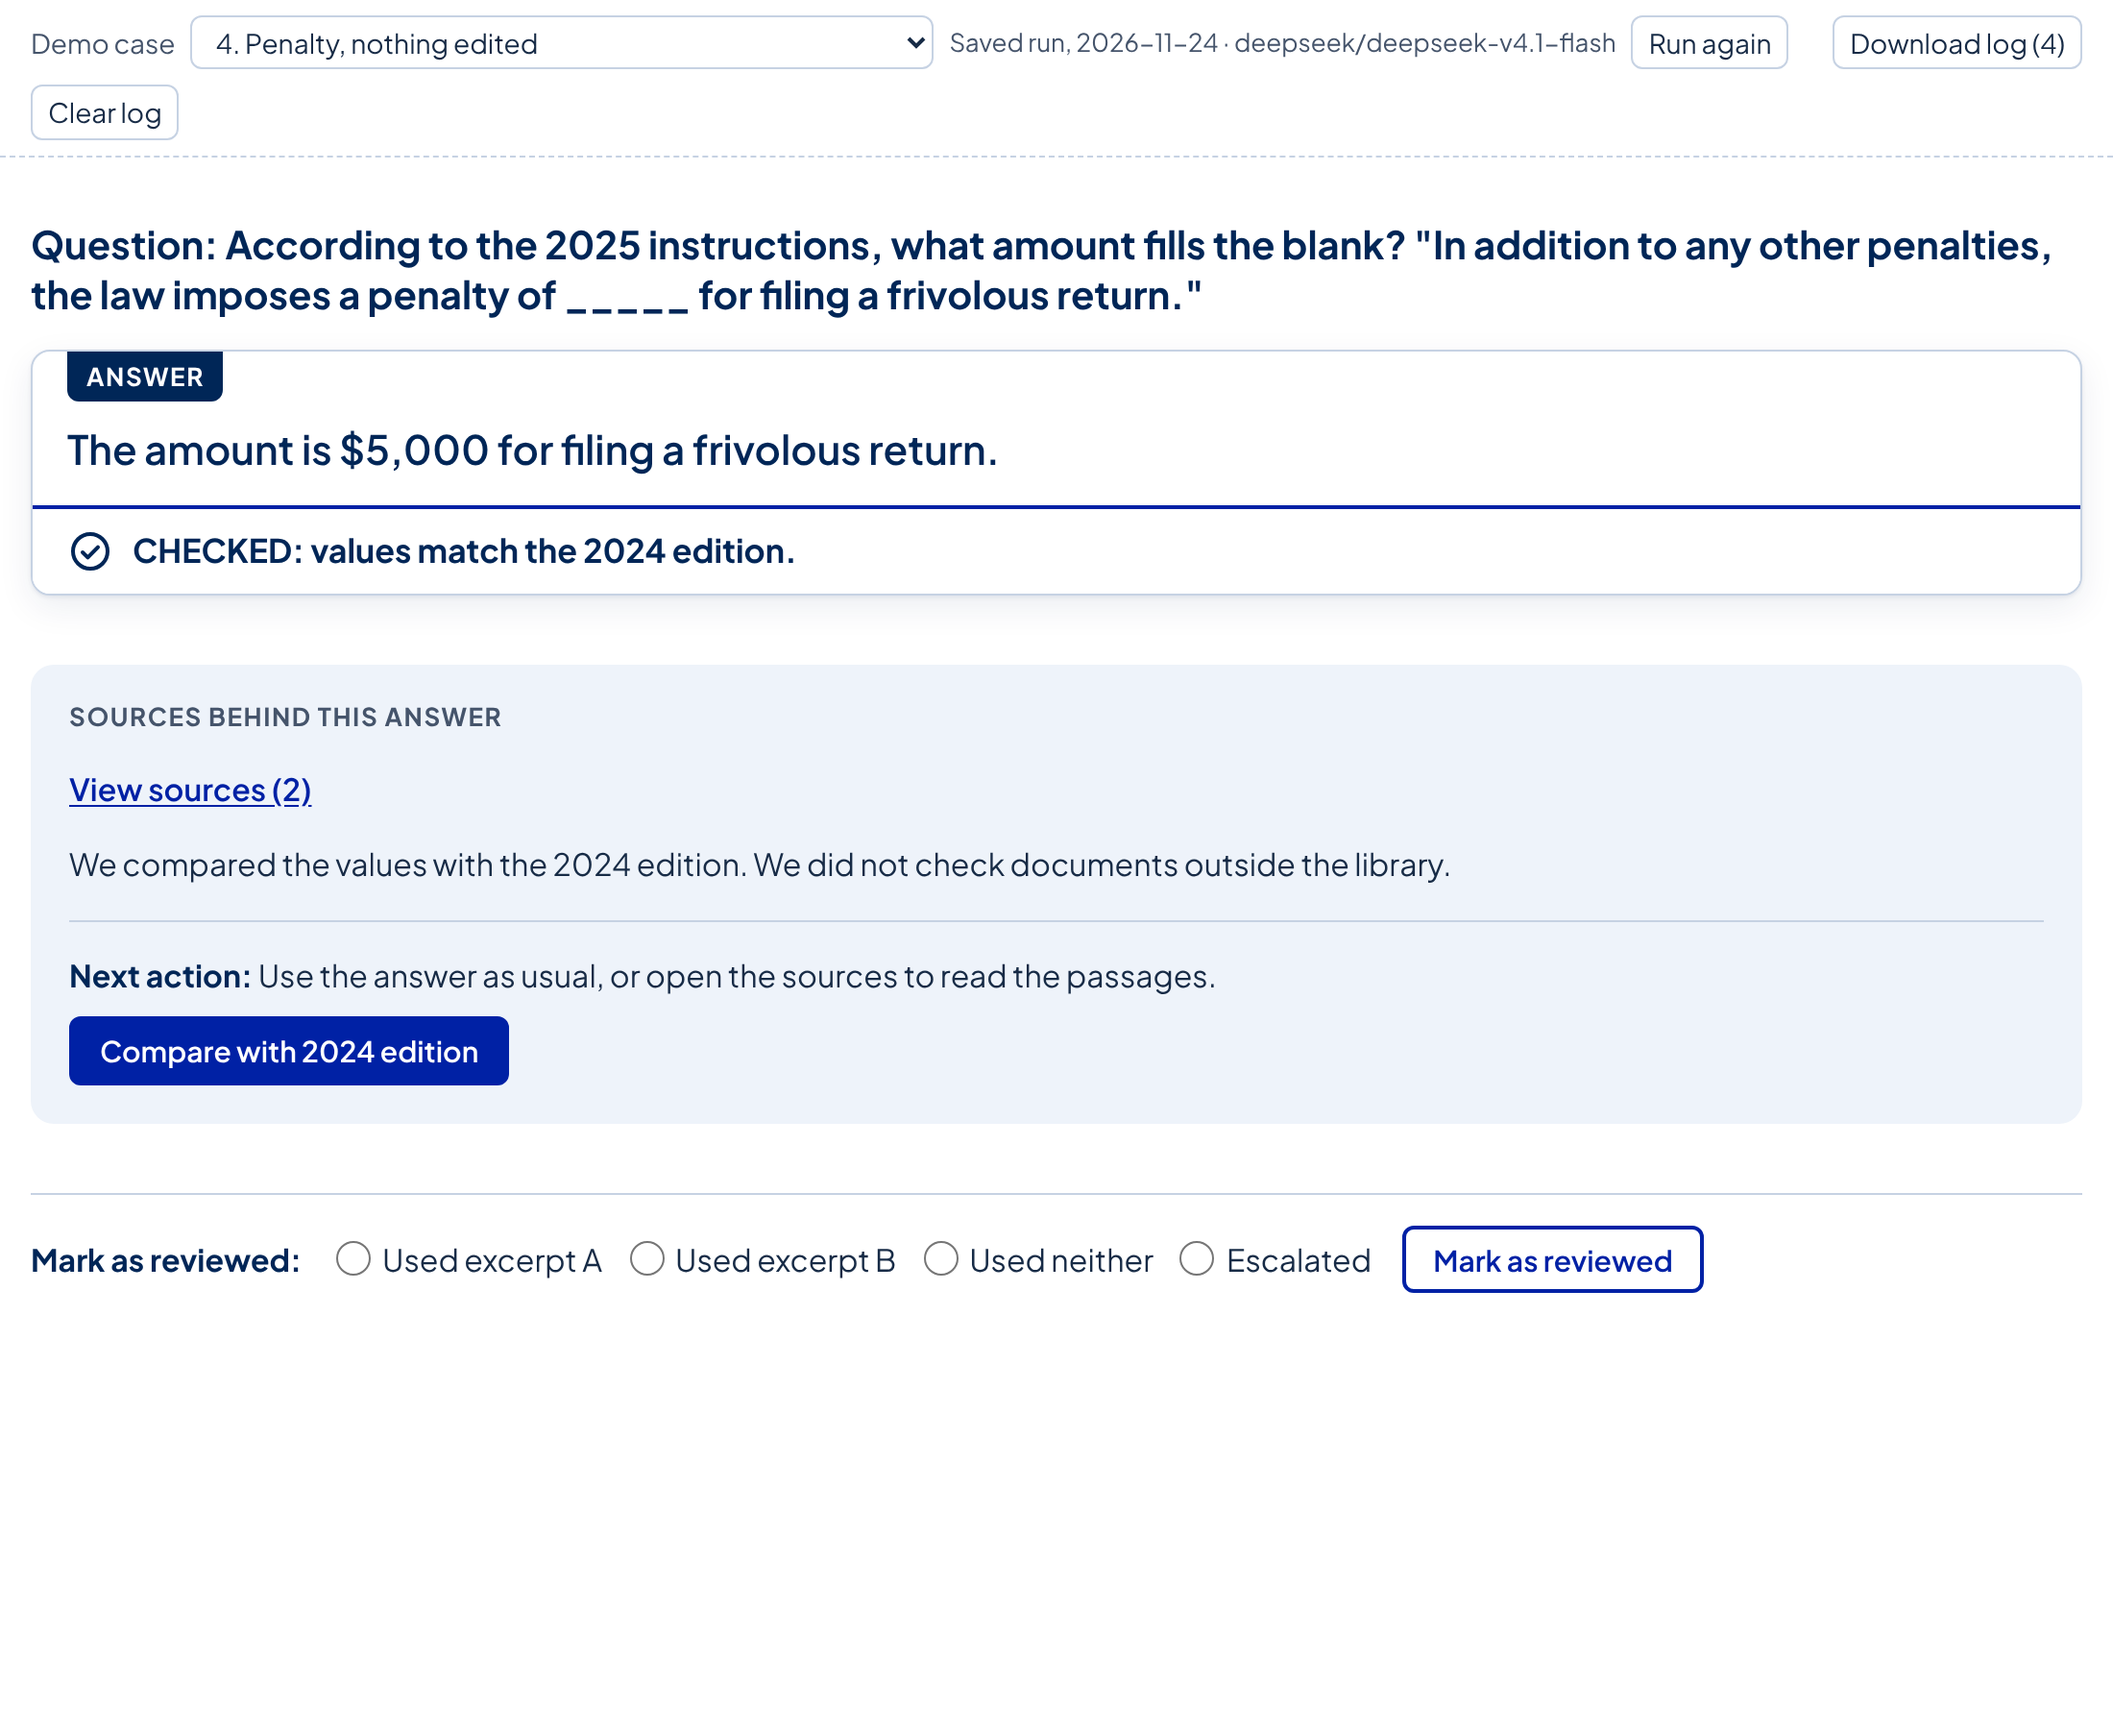
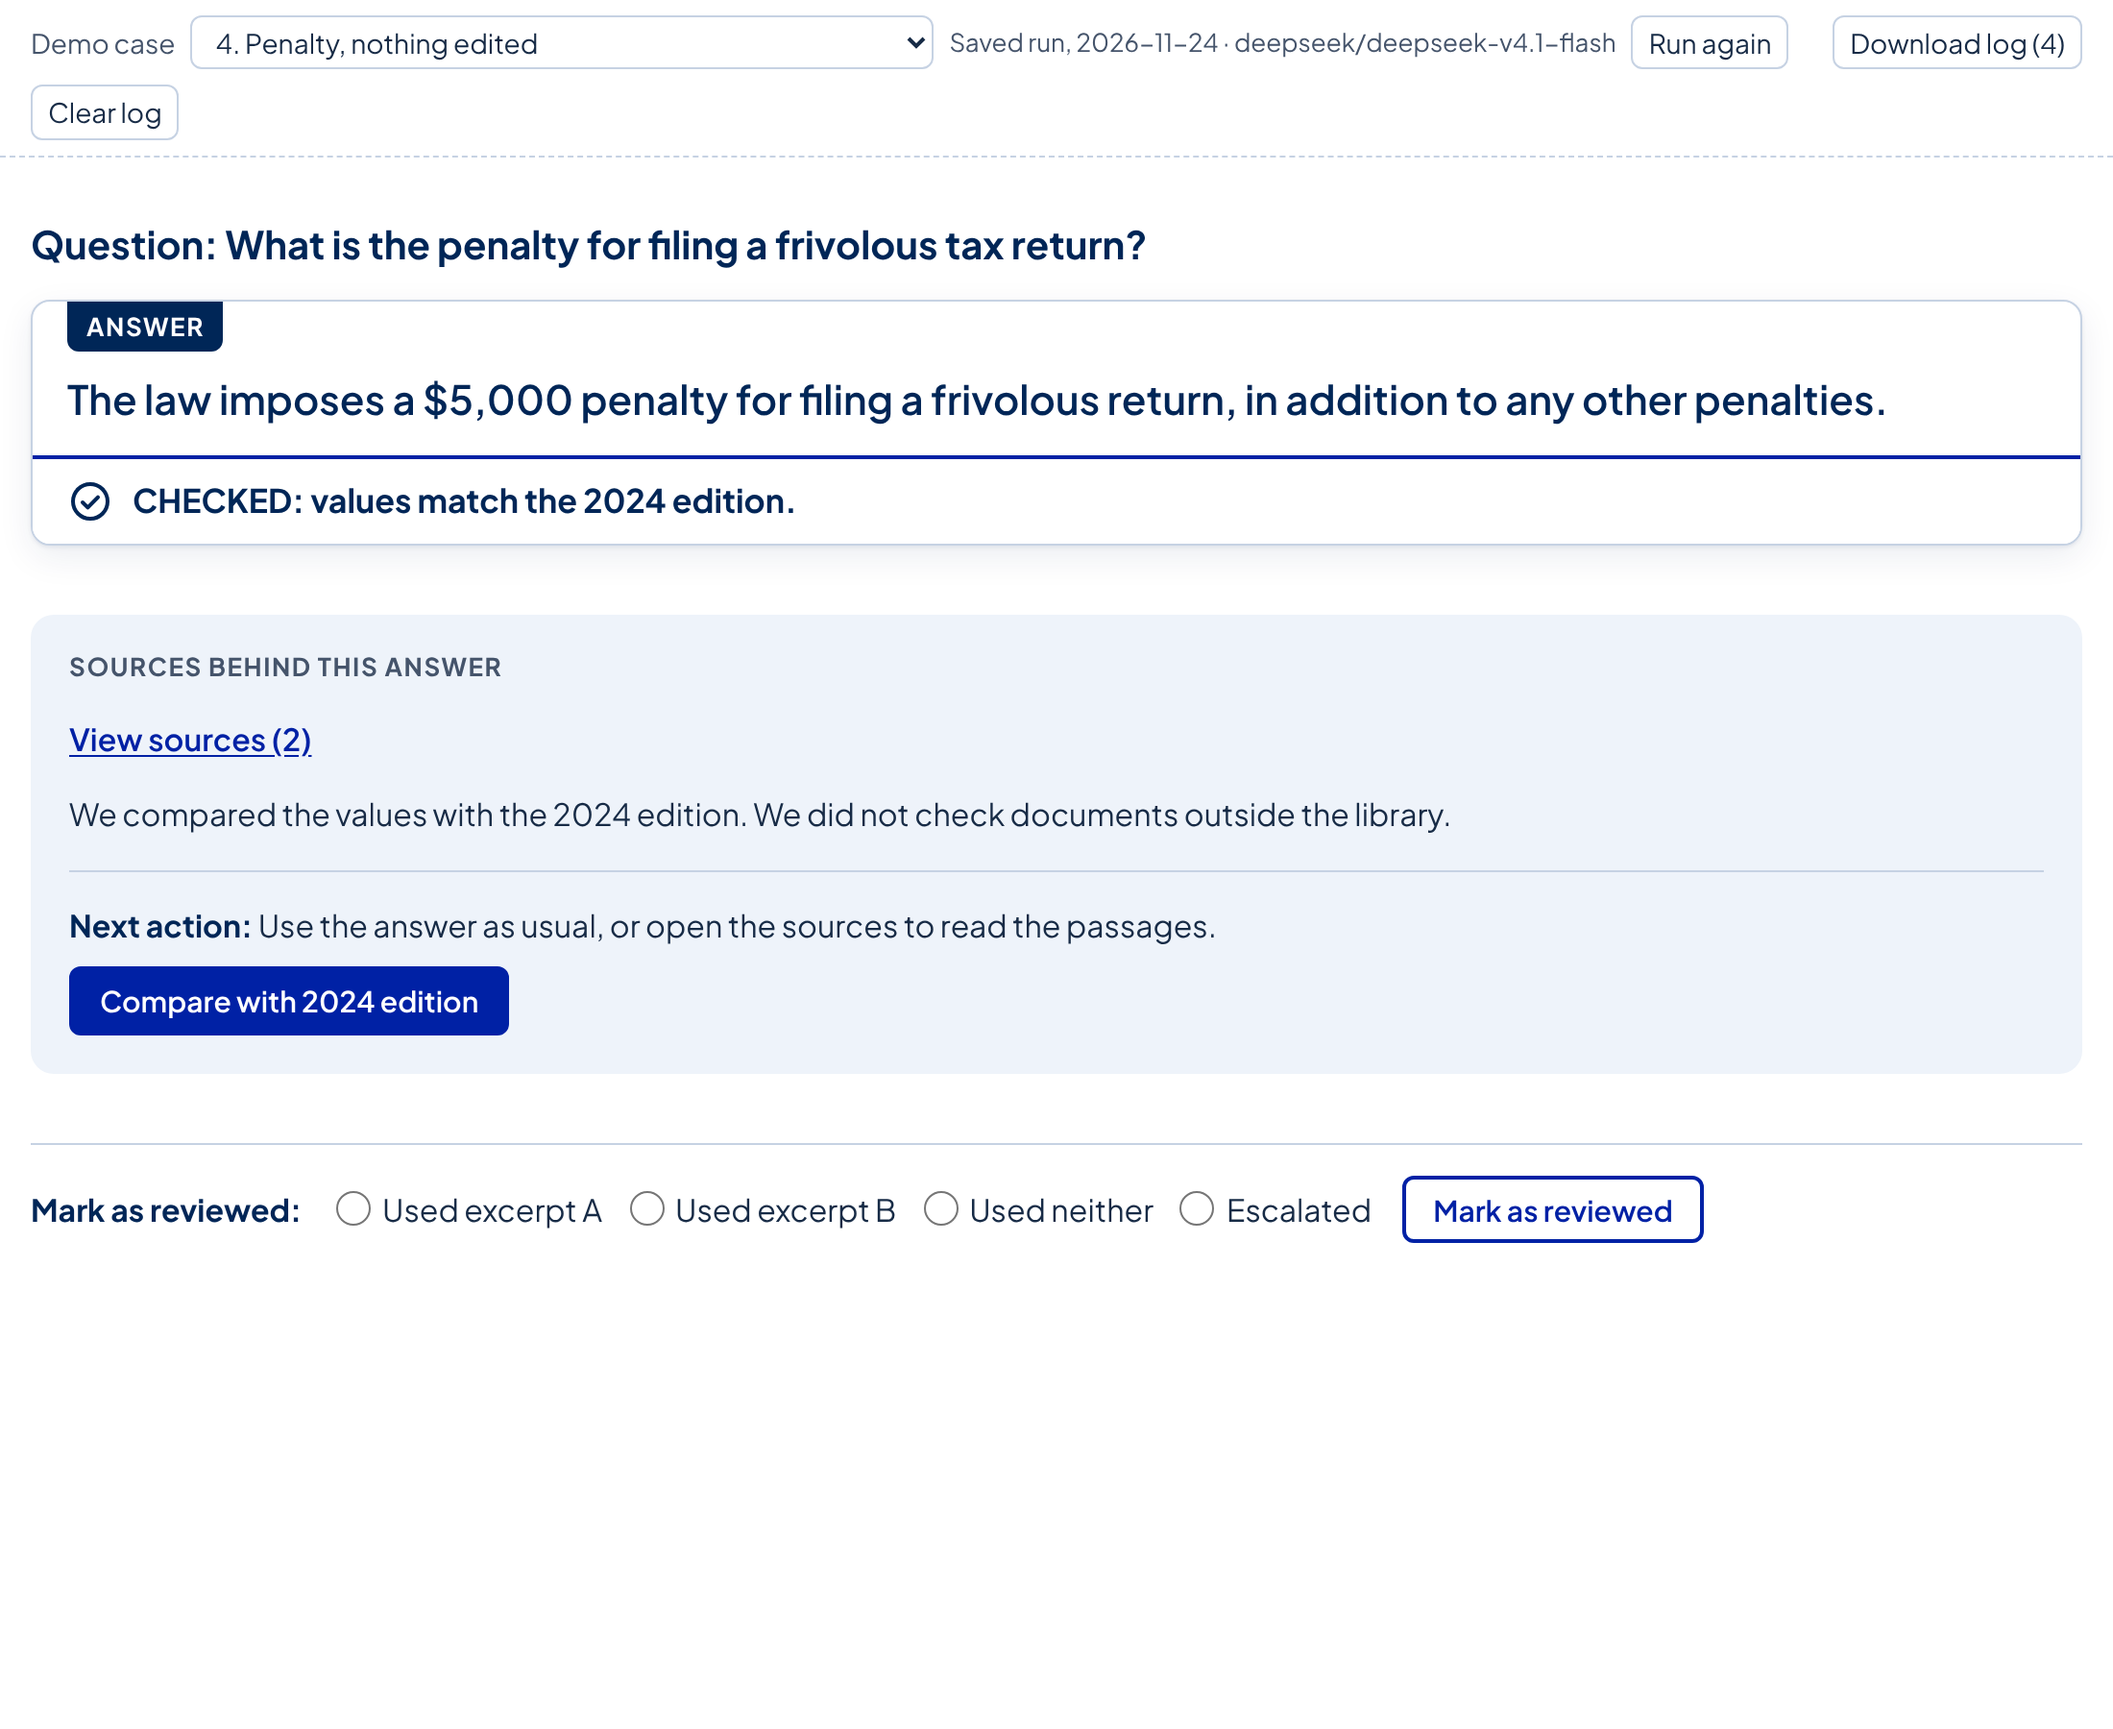
Regenerate demo files with natural question wording
Demo JSON regenerated from a real DeepSeek V4.1 Flash run with the new
question wording; backup screenshots and README example updated.

Claude-Session: https://claude.ai/code/session_016EJCecGABmWYNLkAY2uVbw

Changed region(s): [[0.0, 0.1244, 0.9582, 0.3422], [0.0309, 0.3733, 0.68, 0.6533], [0.0, 0.6533, 0.8036, 0.7467]]

diff --git a/README.md b/README.md
@@ -15,7 +15,7 @@ python3 -m http.server 8000
 
 Open <http://localhost:8000>. (`python3 server.py` from the repo root works too.) Don't open `index.html` directly: browsers block loading the JSON from `file://`.
 
-The **Demo case** dropdown is built from `static/demo/index.json`. Each case is a real trust-layer run on DeepSeek V4.1 Flash, generated ahead of time by `make_demo_json.py` in `signet-track-1-cleanup/experiments/b-prototype` (see `WARNING_SCREEN.md` there). The run date and model show next to the dropdown. Link straight to one with `?state=q24_inplace_1`.
+The **Demo case** dropdown is built from `static/demo/index.json`. Each case is a real trust-layer run on DeepSeek V4.1 Flash, generated ahead of time by `make_demo_json.py` in `signet-track-1-cleanup/experiments/b-prototype` (see `WARNING_SCREEN.md` there). The run date and model show next to the dropdown. Questions are worded the way an analyst would ask them (`data/demo_questions.json` in the backend); the landing page lists them, and typing one opens its first case. Link straight to one with `?state=q24_inplace_1`.
 
 **Live mode (stretch).** Start `python live_server.py 8001` in the backend and open <http://localhost:8000/?live=http://localhost:8001>. Each case is then checked when you pick it (about 1 to 3 s). No reply within 20 s shows CHECK DID NOT RUN.
 
@@ -41,8 +41,8 @@ The screen renders only this object. Its schema is `schema/screen_response.schem
 {
   "question_id": "q24",
   "case": "inplace_1",
-  "question": "According to the 2025 instructions, what amount fills the blank? ...",
-  "answer": "According to the 2025 Form 1040 instructions, the penalty ... is $4,000.",
+  "question": "What is the penalty for filing a frivolous tax return?",
+  "answer": "Under the 2025 Form 1040 instructions, the law imposes a penalty of $4,000 for filing a frivolous return, ...",
   "status": "review_needed",
   "status_reason": "This value differs from the 2024 edition.",
   "limits": "We found a difference. We have not established which value applies.",
